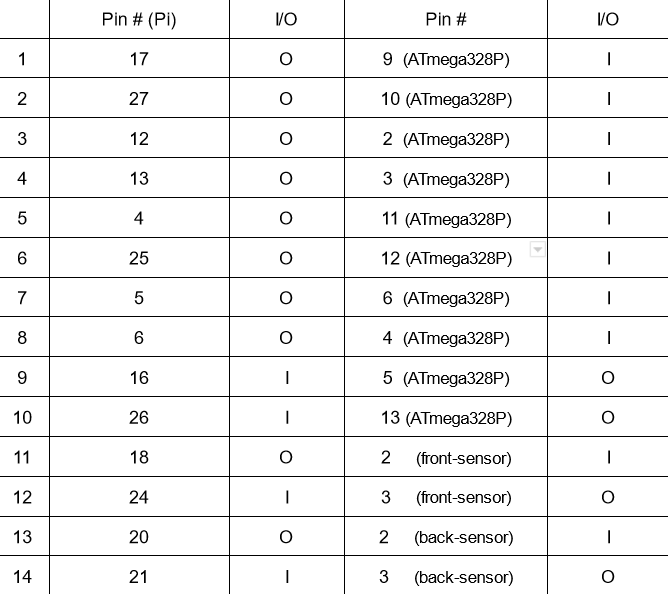
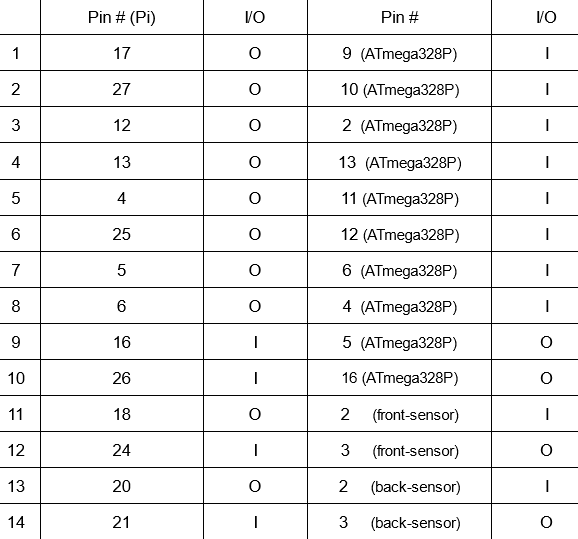
Correcting the second pin mapping chart

Changed region(s): [[0.0, 0.0, 1.0, 1.0], [0.4048, 0.564, 0.4671, 0.5937]]

diff --git a/code/camera.py b/code/camera.py
@@ -79,30 +79,6 @@ class camera(images):
         self.cam = cv2.VideoCapture(self.index*self.index_factor,cam_backends[int(platform=='linux')])            
         self.cam.set(cv2.CAP_PROP_FRAME_WIDTH, 1920) # Divides evenly by 3
         self.cam.set(cv2.CAP_PROP_FRAME_HEIGHT, 1080)  
-    # NOTE: This function is still unused because I don't quite know how to use
-    # it. I'll have to ask yinhuo for help with integrating this into the design.
-    def detect_shape(self,c):
-        shape = "empty"
-        peri = cv2.arcLength(c, True)
-        approx = cv2.approxPolyDP(c, 0.04 * peri, True)
-        # Triangle
-        if len(approx) == 3:
-            shape = "triangle"
-        # Square or rectangle
-        elif len(approx) == 4:
-            (x, y, w, h) = cv2.boundingRect(approx)
-            ar = w / float(h)
-        # A square will have an aspect ratio that is approximately
-        # equal to one, otherwise, the shape is a rectangle
-            shape = "rectangle"
-        # Pentagon
-        elif len(approx) == 5:
-            shape = "pentagon"
-        # Otherwise assume as circle or oval
-        else:
-            (x, y, w, h) = cv2.boundingRect(approx)
-            shape = "circle"
-        return shape
     # Tell the camera thread to end smoothly, and raise a KeyboardInterupt
     # that will be caught in the 'main_fetching' function in main.py
     def destroy(self):

diff --git a/notebooks/luis/README.md b/notebooks/luis/README.md
@@ -114,7 +114,7 @@ We're struggling to fix the motors. We know that signals from the Pi are being s
 
 We've talked with a TA, and it was recommended that we use PWM signals to drive the motors instead of the digital signals we've been using so far. The motors seem to be fully operational now, so we should be able to start debugging the sensor subsystem tomorrow. 
 
-While we were trying to solve the issues with the motors, we remapped the GPIO pins used on the Pi out of concern that some of the GPIO pins may have been broken. We also decided to an ultrasonic sensor (HC-SR04) to the front and back of the car in order to detect obstacles and avoid collisions. The new pin mappings are shown in the chart below.
+While we were trying to solve the issues with the motors, we repurposed pins 3, 13, and 16 on the MCU. Pin 3 (PD1) on the MCU was always high, regardless of the input from the Pi. So we stopped using this pin and repurposed pin 13 (PD7) on the MCU, which was originally the Proximity_Data output from the microcontroller to the Pi, as the Rmotors_in1 output from the Pi to the microcontroller. We later repurposed pin 16 (PB2) on the MCU, which was originally the ECHO_1 output from the second ultrasonic sensor to the MCU, as the Proximity_Data output from the MCU to the Pi. This means that now only one ultrasonic sensor is connected to the MCU. We would also go on to remap the rest of the GPIO pins used on the Pi out of concern that some of the GPIO pins may have been broken, which may have been the explanation as to why pin 3 on the MCU was always high, but this had no effect. We also decided to add an ultrasonic sensor (HC-SR04) to the front and back of the car in order to detect obstacles and avoid collisions. The new pin mappings are shown in the chart below.
 
 ![](images/pinmap-2.png)
 
